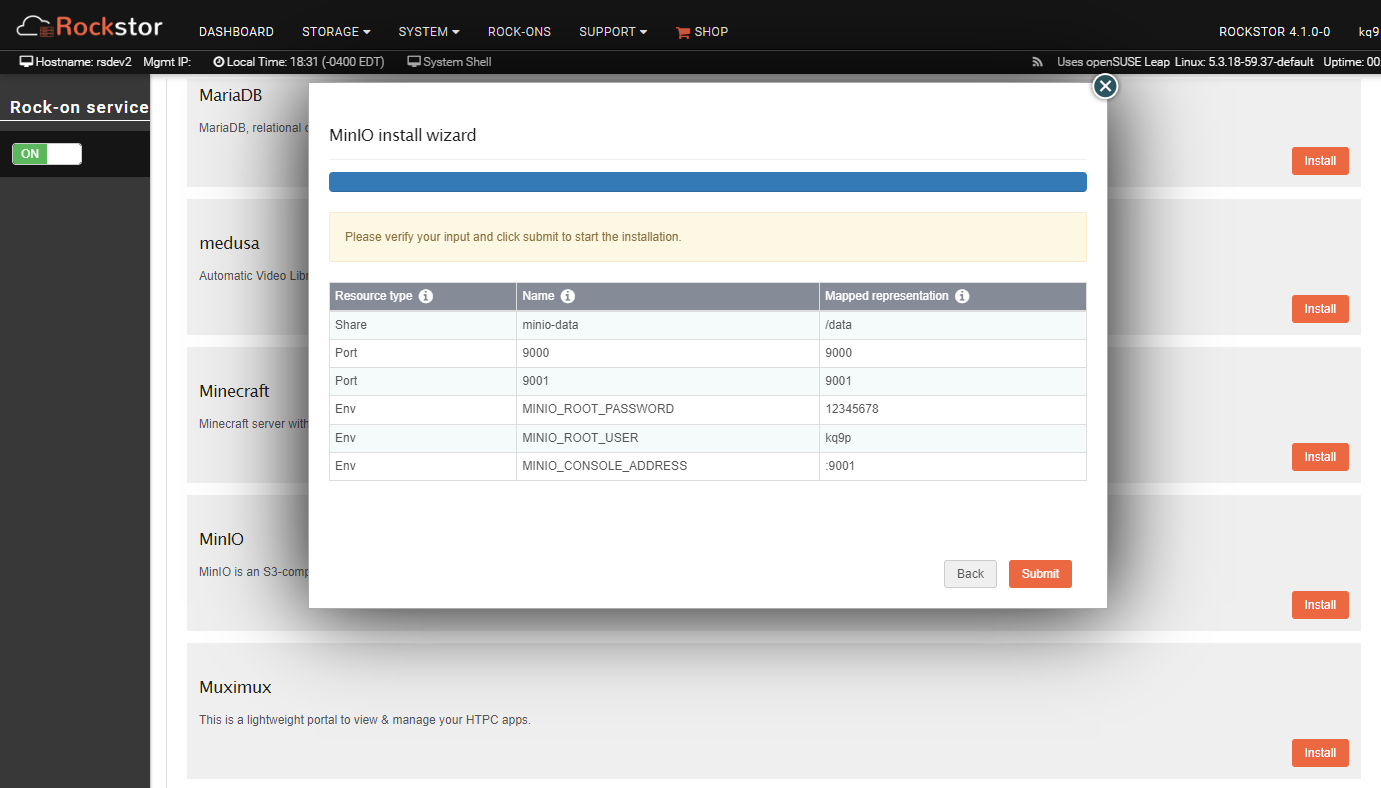
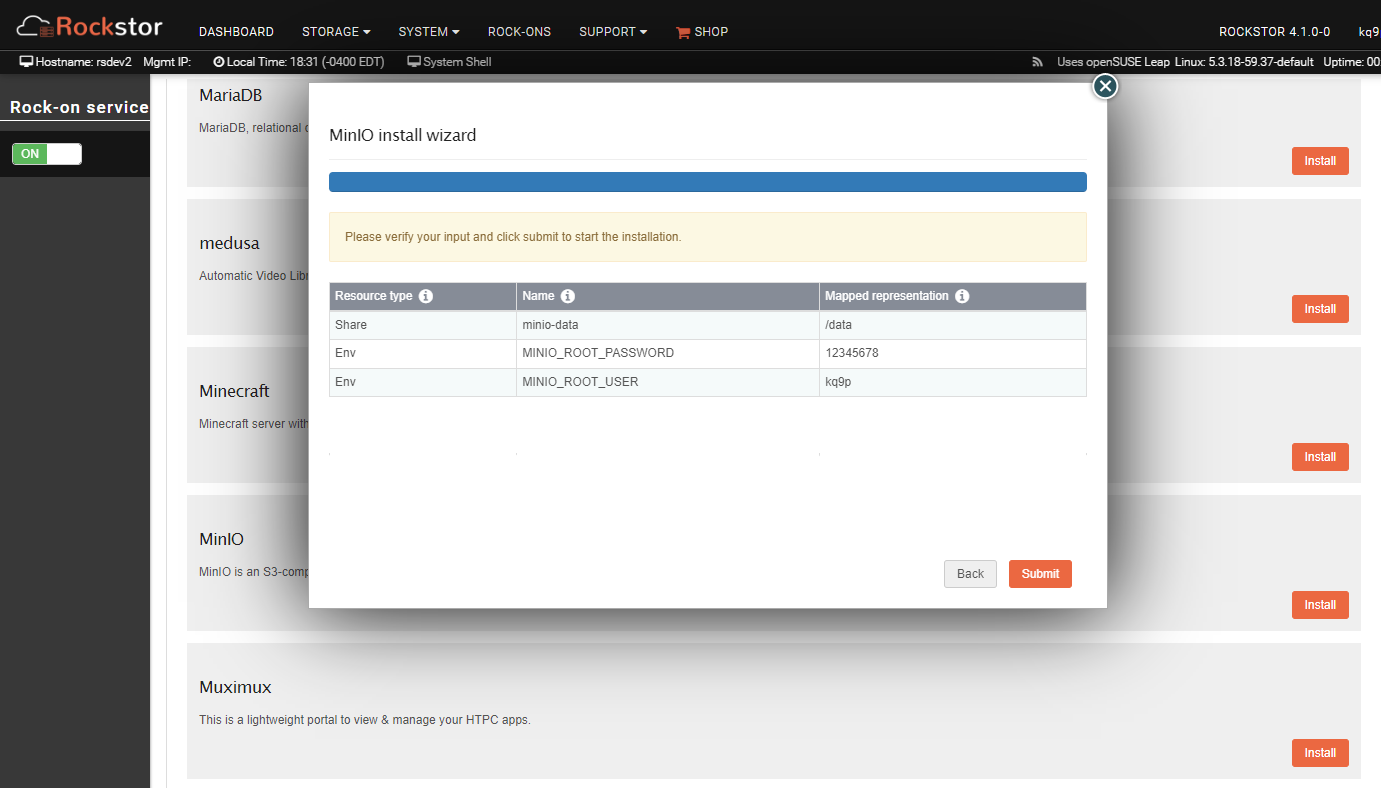
Updates documentation to match Rock-on behavior changes #544
Changed: minio.rst, minio_environment.png, minio_submit.png
Removed: minio_ports.png

Changed region(s): [[0.3736, 0.4264, 0.4982, 0.6091], [0.5916, 0.4264, 0.6539, 0.6091], [0.2491, 0.4569, 0.2802, 0.5178]]

diff --git a/interface/docker-based-rock-ons/minio.rst b/interface/docker-based-rock-ons/minio.rst
@@ -63,32 +63,15 @@ Specify the share you created for MinIO.
    :align: center
 
 
-.. _minio_port:
-
-MinIO Ports
-^^^^^^^^^^^^^^^
-The default "MinIO Admin Portal Port" is 9001; the default "MinIO API Port"  
-is 9000.  You can choose different ports if you are already using 9000/9001 
-for another application, but it is wise to stick with the standard ports, 
-if possible.
-
-.. image:: /images/interface/docker-based-rock-ons/minio_ports.png
-   :width: 100%
-   :align: center
-
-
 .. _minio_environment:
 
 MinIO Environment
 ^^^^^^^^^^^^^^^^^^^^^^
-MinIO needs values for three environment variables.  "MinIO Admin User" 
+MinIO needs values for two environment variables.  "MinIO Admin User" 
 (3 to 128 alphanumeric characters) and 
 "MinIO Admin Password" (8 to 128 alphanumeric characters) 
 are the username and password you will use on the Web 
-interface and in your S3-compatible client software.  "MinIO Console Address" 
-must be set to the same port you chose in the previous dialog for 
-"MinIO Admin Portal Port", but with a colon in front.  (":9001", for 
-example.)
+interface and in your S3-compatible client software.
 
 .. image:: /images/interface/docker-based-rock-ons/minio_environment.png
    :width: 100%
@@ -111,11 +94,16 @@ You'll see a screen indicating the Rock-on is being installed.  Click "Close".
    :width: 100%
    :align: center
 
+
+.. _minio_success:
+
 MinIO Installation Successful
 ^^^^^^^^^^^^^^^^^^^^^^^^^^^^^
-Congratulations!  You can use the "MinIO UI" button to go to the Web
-management interface to view and create storage objects, and you can point
-your S3-compatible application at your new server. 
+Congratulations!  You can open a Web browser and navigate to 
+`http://domain-name:9001` to go to the MinIO Web management interface.  
+There you can view and create storage objects.  Point
+your S3-compatible application at your new server and you are 
+up and running with MinIO block storage. 
 
 .. image:: /images/interface/docker-based-rock-ons/minio_finished.png
    :width: 100%
